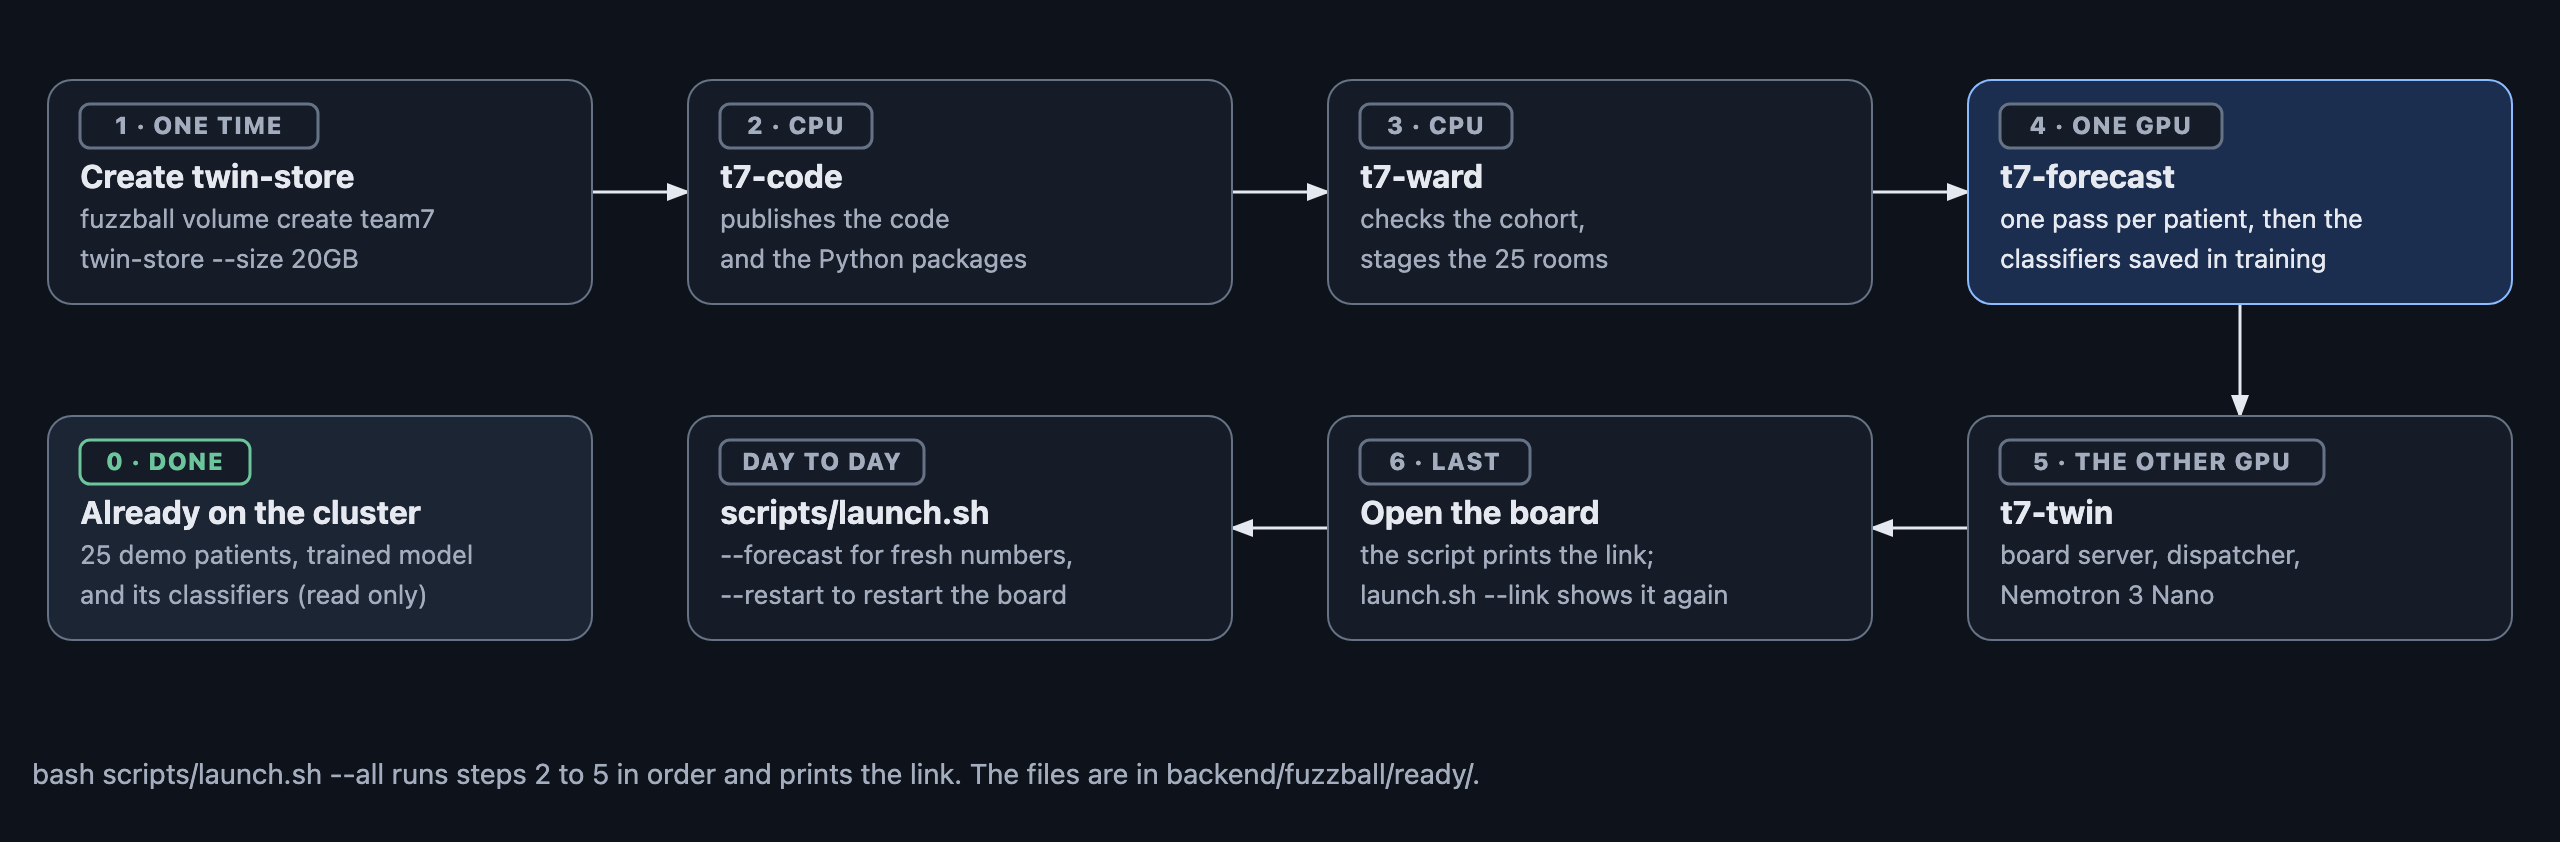
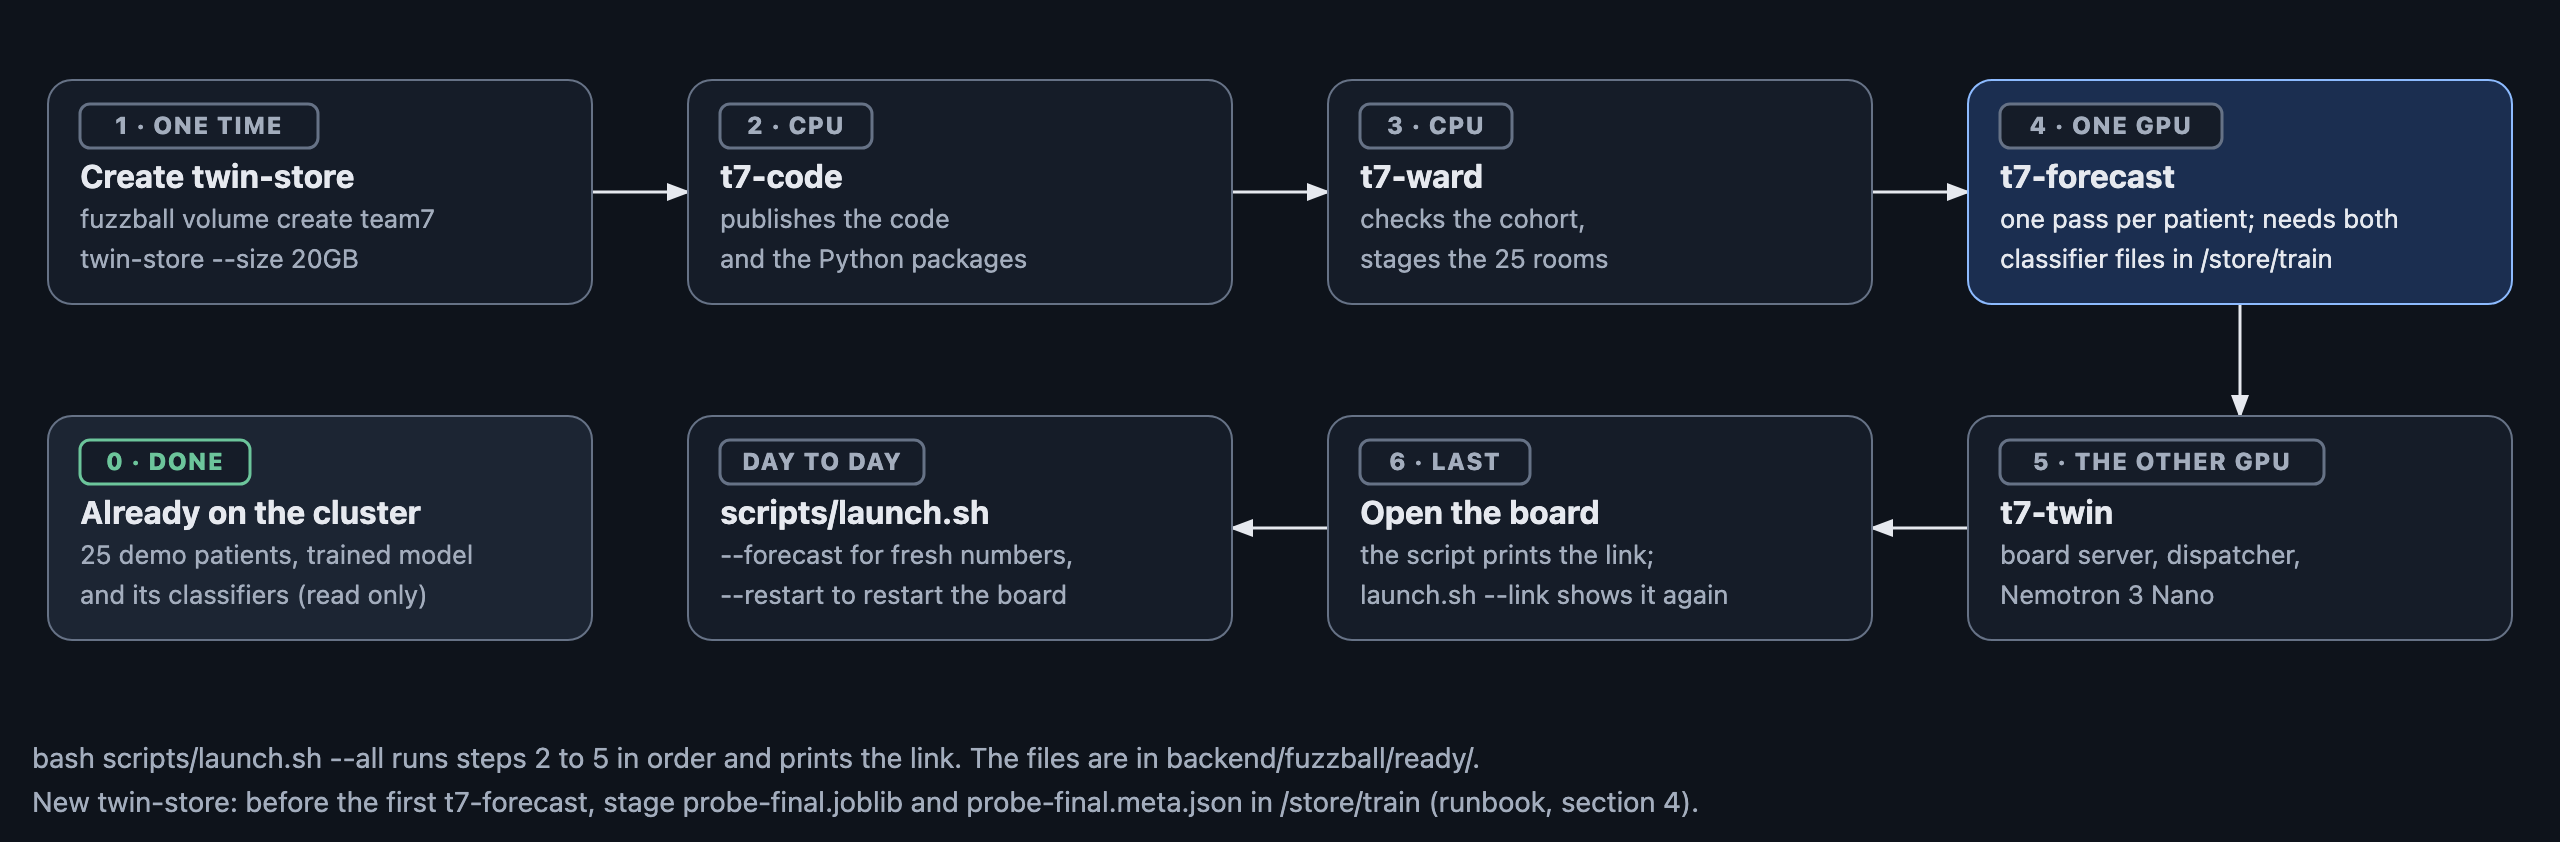
Docs: CodeRabbit PR #20: stage both probe files on a new twin-store before the first forecast (Pages site and the run-order figure)

Changed region(s): [[0.0, 0.8955, 0.6562, 0.9881], [0.8125, 0.247, 0.9375, 0.3397]]

diff --git a/docs/diagrams/workflow.html b/docs/diagrams/workflow.html
@@ -23,7 +23,7 @@
     <div class="diagram-container">
     <svg viewBox="0 0 1280 420" xmlns="http://www.w3.org/2000/svg" role="img" aria-labelledby="workflow-title workflow-desc">
       <title id="workflow-title">How to run it on the cluster</title>
-      <desc id="workflow-desc">Seven steps in order: create the twin-store volume once, then run t7-code, t7-ward, t7-forecast and t7-twin, and open the board's link. scripts/launch.sh --all runs the four workflows in order. The demo patients, the trained model and the classifiers fitted in training are already on the cluster.</desc>
+      <desc id="workflow-desc">Seven steps in order: create the twin-store volume once, then run t7-code, t7-ward, t7-forecast and t7-twin, and open the board's link. scripts/launch.sh --all runs the four workflows in order. The demo patients, the trained model and the classifiers fitted in training are already on the cluster. On a new twin-store, both classifier files (probe-final.joblib and probe-final.meta.json) are staged in /store/train before the first t7-forecast.</desc>
       <defs><marker id="workflow-arrow-ink" markerWidth="8" markerHeight="6" refX="7" refY="3" orient="auto"><polygon points="0 0, 8 3, 0 6" fill="#111827"/></marker><marker id="workflow-arrow-blue" markerWidth="8" markerHeight="6" refX="7" refY="3" orient="auto"><polygon points="0 0, 8 3, 0 6" fill="#1E5BB8"/></marker><marker id="workflow-arrow-ink2" markerWidth="8" markerHeight="6" refX="7" refY="3" orient="auto"><polygon points="0 0, 8 3, 0 6" fill="#4A5567"/></marker></defs>
       <rect width="100%" height="100%" fill="#F3F5F9"/>
       <path d="M 296,96 L 344,96" fill="none" stroke="#111827" stroke-width="1.5" marker-end="url(#workflow-arrow-ink)"/>
@@ -35,12 +35,13 @@
       <rect x="24" y="40" width="272" height="112" rx="12" fill="#FFFFFF" stroke="#7A8597" stroke-width="1"/><rect x="40" y="52" width="119" height="22" rx="5" fill="#FFFFFF" stroke="#7A8597" stroke-width="1.5"/><text x="99.5" y="67" fill="#4A5567" font-size="12" font-weight="800" font-family="system-ui, -apple-system, 'Segoe UI', Roboto, Helvetica, Arial, sans-serif" text-anchor="middle" letter-spacing="0.05em">1 · ONE TIME</text><text x="40" y="94" fill="#111827" font-size="16" font-weight="700" font-family="system-ui, -apple-system, 'Segoe UI', Roboto, Helvetica, Arial, sans-serif" text-anchor="start">Create twin-store</text><text x="40" y="114" fill="#4A5567" font-size="13" font-weight="400" font-family="system-ui, -apple-system, 'Segoe UI', Roboto, Helvetica, Arial, sans-serif" text-anchor="start">fuzzball volume create team7</text><text x="40" y="134" fill="#4A5567" font-size="13" font-weight="400" font-family="system-ui, -apple-system, 'Segoe UI', Roboto, Helvetica, Arial, sans-serif" text-anchor="start">twin-store --size 20GB</text>
       <rect x="344" y="40" width="272" height="112" rx="12" fill="#FFFFFF" stroke="#7A8597" stroke-width="1"/><rect x="360" y="52" width="76" height="22" rx="5" fill="#FFFFFF" stroke="#7A8597" stroke-width="1.5"/><text x="398.0" y="67" fill="#4A5567" font-size="12" font-weight="800" font-family="system-ui, -apple-system, 'Segoe UI', Roboto, Helvetica, Arial, sans-serif" text-anchor="middle" letter-spacing="0.05em">2 · CPU</text><text x="360" y="94" fill="#111827" font-size="16" font-weight="700" font-family="system-ui, -apple-system, 'Segoe UI', Roboto, Helvetica, Arial, sans-serif" text-anchor="start">t7-code</text><text x="360" y="114" fill="#4A5567" font-size="13" font-weight="400" font-family="system-ui, -apple-system, 'Segoe UI', Roboto, Helvetica, Arial, sans-serif" text-anchor="start">publishes the code</text><text x="360" y="134" fill="#4A5567" font-size="13" font-weight="400" font-family="system-ui, -apple-system, 'Segoe UI', Roboto, Helvetica, Arial, sans-serif" text-anchor="start">and the Python packages</text>
       <rect x="664" y="40" width="272" height="112" rx="12" fill="#FFFFFF" stroke="#7A8597" stroke-width="1"/><rect x="680" y="52" width="76" height="22" rx="5" fill="#FFFFFF" stroke="#7A8597" stroke-width="1.5"/><text x="718.0" y="67" fill="#4A5567" font-size="12" font-weight="800" font-family="system-ui, -apple-system, 'Segoe UI', Roboto, Helvetica, Arial, sans-serif" text-anchor="middle" letter-spacing="0.05em">3 · CPU</text><text x="680" y="94" fill="#111827" font-size="16" font-weight="700" font-family="system-ui, -apple-system, 'Segoe UI', Roboto, Helvetica, Arial, sans-serif" text-anchor="start">t7-ward</text><text x="680" y="114" fill="#4A5567" font-size="13" font-weight="400" font-family="system-ui, -apple-system, 'Segoe UI', Roboto, Helvetica, Arial, sans-serif" text-anchor="start">checks the cohort,</text><text x="680" y="134" fill="#4A5567" font-size="13" font-weight="400" font-family="system-ui, -apple-system, 'Segoe UI', Roboto, Helvetica, Arial, sans-serif" text-anchor="start">stages the 25 rooms</text>
-      <rect x="984" y="40" width="272" height="112" rx="12" fill="#D2E2F8" stroke="#1E5BB8" stroke-width="1"/><rect x="1000" y="52" width="111" height="22" rx="5" fill="#FFFFFF" stroke="#7A8597" stroke-width="1.5"/><text x="1055.5" y="67" fill="#4A5567" font-size="12" font-weight="800" font-family="system-ui, -apple-system, 'Segoe UI', Roboto, Helvetica, Arial, sans-serif" text-anchor="middle" letter-spacing="0.05em">4 · ONE GPU</text><text x="1000" y="94" fill="#111827" font-size="16" font-weight="700" font-family="system-ui, -apple-system, 'Segoe UI', Roboto, Helvetica, Arial, sans-serif" text-anchor="start">t7-forecast</text><text x="1000" y="114" fill="#111827" font-size="13" font-weight="400" font-family="system-ui, -apple-system, 'Segoe UI', Roboto, Helvetica, Arial, sans-serif" text-anchor="start">one pass per patient, then the</text><text x="1000" y="134" fill="#111827" font-size="13" font-weight="400" font-family="system-ui, -apple-system, 'Segoe UI', Roboto, Helvetica, Arial, sans-serif" text-anchor="start">classifiers saved in training</text>
+      <rect x="984" y="40" width="272" height="112" rx="12" fill="#D2E2F8" stroke="#1E5BB8" stroke-width="1"/><rect x="1000" y="52" width="111" height="22" rx="5" fill="#FFFFFF" stroke="#7A8597" stroke-width="1.5"/><text x="1055.5" y="67" fill="#4A5567" font-size="12" font-weight="800" font-family="system-ui, -apple-system, 'Segoe UI', Roboto, Helvetica, Arial, sans-serif" text-anchor="middle" letter-spacing="0.05em">4 · ONE GPU</text><text x="1000" y="94" fill="#111827" font-size="16" font-weight="700" font-family="system-ui, -apple-system, 'Segoe UI', Roboto, Helvetica, Arial, sans-serif" text-anchor="start">t7-forecast</text><text x="1000" y="114" fill="#111827" font-size="13" font-weight="400" font-family="system-ui, -apple-system, 'Segoe UI', Roboto, Helvetica, Arial, sans-serif" text-anchor="start">one pass per patient; needs both</text><text x="1000" y="134" fill="#111827" font-size="13" font-weight="400" font-family="system-ui, -apple-system, 'Segoe UI', Roboto, Helvetica, Arial, sans-serif" text-anchor="start">classifier files in /store/train</text>
       <rect x="984" y="208" width="272" height="112" rx="12" fill="#FFFFFF" stroke="#7A8597" stroke-width="1"/><rect x="1000" y="220" width="162" height="22" rx="5" fill="#FFFFFF" stroke="#7A8597" stroke-width="1.5"/><text x="1081.0" y="235" fill="#4A5567" font-size="12" font-weight="800" font-family="system-ui, -apple-system, 'Segoe UI', Roboto, Helvetica, Arial, sans-serif" text-anchor="middle" letter-spacing="0.05em">5 · THE OTHER GPU</text><text x="1000" y="262" fill="#111827" font-size="16" font-weight="700" font-family="system-ui, -apple-system, 'Segoe UI', Roboto, Helvetica, Arial, sans-serif" text-anchor="start">t7-twin</text><text x="1000" y="282" fill="#4A5567" font-size="13" font-weight="400" font-family="system-ui, -apple-system, 'Segoe UI', Roboto, Helvetica, Arial, sans-serif" text-anchor="start">board server, dispatcher,</text><text x="1000" y="302" fill="#4A5567" font-size="13" font-weight="400" font-family="system-ui, -apple-system, 'Segoe UI', Roboto, Helvetica, Arial, sans-serif" text-anchor="start">Nemotron 3 Nano</text>
       <rect x="664" y="208" width="272" height="112" rx="12" fill="#FFFFFF" stroke="#7A8597" stroke-width="1"/><rect x="680" y="220" width="85" height="22" rx="5" fill="#FFFFFF" stroke="#7A8597" stroke-width="1.5"/><text x="722.5" y="235" fill="#4A5567" font-size="12" font-weight="800" font-family="system-ui, -apple-system, 'Segoe UI', Roboto, Helvetica, Arial, sans-serif" text-anchor="middle" letter-spacing="0.05em">6 · LAST</text><text x="680" y="262" fill="#111827" font-size="16" font-weight="700" font-family="system-ui, -apple-system, 'Segoe UI', Roboto, Helvetica, Arial, sans-serif" text-anchor="start">Open the board</text><text x="680" y="282" fill="#4A5567" font-size="13" font-weight="400" font-family="system-ui, -apple-system, 'Segoe UI', Roboto, Helvetica, Arial, sans-serif" text-anchor="start">the script prints the link;</text><text x="680" y="302" fill="#4A5567" font-size="13" font-weight="400" font-family="system-ui, -apple-system, 'Segoe UI', Roboto, Helvetica, Arial, sans-serif" text-anchor="start">launch.sh --link shows it again</text>
       <rect x="344" y="208" width="272" height="112" rx="12" fill="#FFFFFF" stroke="#7A8597" stroke-width="1"/><rect x="360" y="220" width="102" height="22" rx="5" fill="#FFFFFF" stroke="#7A8597" stroke-width="1.5"/><text x="411.0" y="235" fill="#4A5567" font-size="12" font-weight="800" font-family="system-ui, -apple-system, 'Segoe UI', Roboto, Helvetica, Arial, sans-serif" text-anchor="middle" letter-spacing="0.05em">DAY TO DAY</text><text x="360" y="262" fill="#111827" font-size="16" font-weight="700" font-family="system-ui, -apple-system, 'Segoe UI', Roboto, Helvetica, Arial, sans-serif" text-anchor="start">scripts/launch.sh</text><text x="360" y="282" fill="#4A5567" font-size="13" font-weight="400" font-family="system-ui, -apple-system, 'Segoe UI', Roboto, Helvetica, Arial, sans-serif" text-anchor="start">--forecast for fresh numbers,</text><text x="360" y="302" fill="#4A5567" font-size="13" font-weight="400" font-family="system-ui, -apple-system, 'Segoe UI', Roboto, Helvetica, Arial, sans-serif" text-anchor="start">--restart to restart the board</text>
       <rect x="24" y="208" width="272" height="112" rx="12" fill="#E8ECF2" stroke="#7A8597" stroke-width="1"/><rect x="40" y="220" width="85" height="22" rx="5" fill="#FFFFFF" stroke="#18794E" stroke-width="1.5"/><text x="82.5" y="235" fill="#18794E" font-size="12" font-weight="800" font-family="system-ui, -apple-system, 'Segoe UI', Roboto, Helvetica, Arial, sans-serif" text-anchor="middle" letter-spacing="0.05em">0 · DONE</text><text x="40" y="262" fill="#111827" font-size="16" font-weight="700" font-family="system-ui, -apple-system, 'Segoe UI', Roboto, Helvetica, Arial, sans-serif" text-anchor="start">Already on the cluster</text><text x="40" y="282" fill="#4A5567" font-size="13" font-weight="400" font-family="system-ui, -apple-system, 'Segoe UI', Roboto, Helvetica, Arial, sans-serif" text-anchor="start">25 demo patients, trained model</text><text x="40" y="302" fill="#4A5567" font-size="13" font-weight="400" font-family="system-ui, -apple-system, 'Segoe UI', Roboto, Helvetica, Arial, sans-serif" text-anchor="start">and its classifiers (read only)</text>
-      <text x="16" y="392" fill="#4A5567" font-size="14" font-weight="400" font-family="system-ui, -apple-system, 'Segoe UI', Roboto, Helvetica, Arial, sans-serif" text-anchor="start">bash scripts/launch.sh --all runs steps 2 to 5 in order and prints the link. The files are in backend/fuzzball/ready/.</text>
+      <text x="16" y="384" fill="#4A5567" font-size="14" font-weight="400" font-family="system-ui, -apple-system, 'Segoe UI', Roboto, Helvetica, Arial, sans-serif" text-anchor="start">bash scripts/launch.sh --all runs steps 2 to 5 in order and prints the link. The files are in backend/fuzzball/ready/.</text>
+      <text x="16" y="406" fill="#4A5567" font-size="14" font-weight="400" font-family="system-ui, -apple-system, 'Segoe UI', Roboto, Helvetica, Arial, sans-serif" text-anchor="start">New twin-store: before the first t7-forecast, stage probe-final.joblib and probe-final.meta.json in /store/train (runbook, section 4).</text>
     </svg>
     </div>
   </div>

diff --git a/docs/index.html b/docs/index.html
@@ -351,7 +351,7 @@ footer p{max-width:80ch}
   <div class="wrap">
     <h2>Run it on the cluster</h2>
     <p class="lede">One script runs the chain and prints the board's link. Each step is a Fuzzball workflow file.</p>
-    <figure><div class="fig"><picture><source media="(prefers-color-scheme:dark)" srcset="site/night/workflow.png"><img loading="lazy" src="diagrams/workflow.png" width="2560" height="842" alt="Run order: create twin-store once, then t7-code, t7-ward, t7-forecast and t7-twin, and open the board's link. scripts/launch.sh runs the four workflows. The demo patients, the trained model and its classifiers are already on the cluster."></picture></div></figure>
+    <figure><div class="fig"><picture><source media="(prefers-color-scheme:dark)" srcset="site/night/workflow.png"><img loading="lazy" src="diagrams/workflow.png" width="2560" height="842" alt="Run order: create twin-store once, then t7-code, t7-ward, t7-forecast and t7-twin, and open the board's link. scripts/launch.sh runs the four workflows. The demo patients, the trained model and its classifiers are already on the cluster; on a new twin-store both classifier files are staged in /store/train before the first forecast."></picture></div></figure>
 <pre>bash scripts/launch.sh             # from backend/: start what is missing, wait for the board, print its HTTPS link
 bash scripts/launch.sh --forecast  # run a fresh forecast first
 bash scripts/launch.sh --link      # print the link of the running board
@@ -360,8 +360,9 @@ bash scripts/launch.sh --all       # publish code, stage the unit, forecast, the
     <ol class="run">
       <li><span>Once: create the volume the product writes to, <code>fuzzball volume create team7 twin-store --size 20GB</code>. <code>mimic_clif</code> (patients, model) and <code>hfcache</code> (Nemotron weights) are only read.</span><span class="chip">One time</span></li>
       <li><span><code>t7-code</code>: publishes the pinned commit to <code>/store/code</code> and the Python packages to <code>/store/py</code>.</span><span class="chip">CPU</span></li>
+      <li><span>Once per new <code>twin-store</code>, after <code>t7-code</code> and before the first forecast: stage the classifiers. In a job that mounts both volumes, copy <code>/data/model_output/final/probe.joblib</code> to <code>/store/train/probe-final.joblib</code> and write its provenance file <code>/store/train/probe-final.meta.json</code> (the two commands are in the <a href="https://github.com/sajor2000/icustrainciq/blob/main/backend/docs/RUNBOOK.md">runbook</a>, section 4). No workflow does this step, and <code>t7-forecast</code> stops without both files.</span><span class="chip">One time</span></li>
       <li><span><code>t7-ward</code>: checks the cohort (ICU patients, cut 24 hours after ICU arrival) and stages the 25 rooms in <code>/store/stage</code>. Names on the tiles are generated per room number and fictional.</span><span class="chip">CPU</span></li>
-      <li><span><code>t7-forecast</code>: a check, one model pass per patient, then scoring with the classifiers training saved (<code>/store/train/probe-final.joblib</code>). It writes <code>rooms.json</code>, then <code>forecast.json</code>. <code>t7-fit</code> is only a fallback for when training's job 4 has not run.</span><span class="chip">One GPU</span></li>
+      <li><span><code>t7-forecast</code>: a check, one model pass per patient, then scoring with the classifiers training saved (<code>/store/train/probe-final.joblib</code> and <code>probe-final.meta.json</code>, staged in the step above). It writes <code>rooms.json</code>, then <code>forecast.json</code>. <code>t7-fit</code> is only a fallback for when training's job 4 has not run.</span><span class="chip">One GPU</span></li>
       <li><span><code>t7-twin</code>: board server, dispatcher and Nemotron 3 Nano. The board's endpoint is plain HTTP inside the cluster; Fuzzball's proxy serves it as an HTTPS link.</span><span class="chip">One GPU</span></li>
       <li><span>The script waits for the board (up to 20 minutes while Nemotron loads), prints the link and opens it.</span><span class="chip">The link</span></li>
     </ol>

diff --git a/docs/diagrams/make_figures.py b/docs/diagrams/make_figures.py
@@ -294,7 +294,7 @@ def architecture():
 # =============================================================== detail: how to run it on the cluster
 def workflow():
     f = Fig("workflow", 1280, 420, "How to run it on the cluster",
-            "Seven steps in order: create the twin-store volume once, then run t7-code, t7-ward, t7-forecast and t7-twin, and open the board's link. scripts/launch.sh --all runs the four workflows in order. The demo patients, the trained model and the classifiers fitted in training are already on the cluster.",
+            "Seven steps in order: create the twin-store volume once, then run t7-code, t7-ward, t7-forecast and t7-twin, and open the board's link. scripts/launch.sh --all runs the four workflows in order. The demo patients, the trained model and the classifiers fitted in training are already on the cluster. On a new twin-store, both classifier files (probe-final.joblib and probe-final.meta.json) are staged in /store/train before the first t7-forecast.",
             "ICU Lookahead · run order", "One volume, then four workflows; one script runs them")
     xs = [24, 344, 664, 984]
     y1, y2, h = 40, 208, 112
@@ -302,7 +302,7 @@ def workflow():
            ["fuzzball volume create team7", "twin-store --size 20GB"], chip="ready")
     f.node(xs[1], y1, 272, h, "card", "2 · CPU", "t7-code", ["publishes the code", "and the Python packages"], chip="ready")
     f.node(xs[2], y1, 272, h, "card", "3 · CPU", "t7-ward", ["checks the cohort,", "stages the 25 rooms"], chip="ready")
-    f.node(xs[3], y1, 272, h, "forecast", "4 · One GPU", "t7-forecast", ["one pass per patient, then the", "classifiers saved in training"], chip="ready")
+    f.node(xs[3], y1, 272, h, "forecast", "4 · One GPU", "t7-forecast", ["one pass per patient; needs both", "classifier files in /store/train"], chip="ready")
     f.node(xs[3], y2, 272, h, "card", "5 · The other GPU", "t7-twin", ["board server, dispatcher,", "Nemotron 3 Nano"], chip="ready")
     f.node(xs[2], y2, 272, h, "card", "6 · Last", "Open the board", ["the script prints the link;", "launch.sh --link shows it again"], chip="ready")
     f.node(xs[1], y2, 272, h, "card", "Day to day", "scripts/launch.sh", ["--forecast for fresh numbers,", "--restart to restart the board"], chip="ready")
@@ -314,7 +314,8 @@ def workflow():
     f.arrow([(1120, y1 + h), (1120, y2)])
     f.arrow([(984, yc2), (936, yc2)])
     f.arrow([(664, yc2), (616, yc2)])
-    f.caption("bash scripts/launch.sh --all runs steps 2 to 5 in order and prints the link. The files are in backend/fuzzball/ready/.", 392)
+    f.caption("bash scripts/launch.sh --all runs steps 2 to 5 in order and prints the link. The files are in backend/fuzzball/ready/.", 384)
+    f.caption("New twin-store: before the first t7-forecast, stage probe-final.joblib and probe-final.meta.json in /store/train (runbook, section 4).", 406)
     f.write()
 
 
